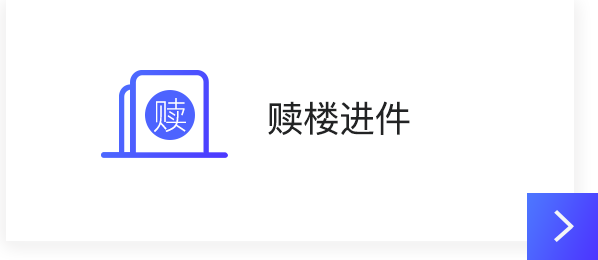
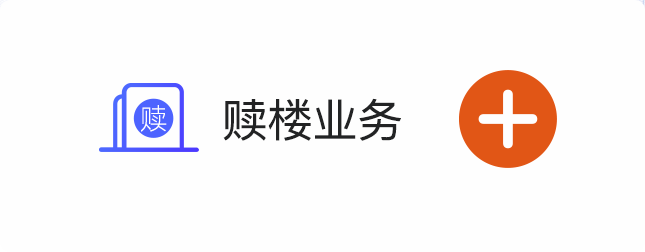
test

Changed region(s): [[0.1505, 0.25, 0.8729, 0.6667], [0.8729, 0.7222, 1.0, 1.0], [0.9933, 0.0, 1.0, 0.0278]]

diff --git a/application/views/users/index.html b/application/views/users/index.html
@@ -3,8 +3,8 @@
 <head>
   <meta charset="utf-8">
   <meta http-equiv="X-UA-Compatible" content="IE=edge">
-  <title>首页</title>
-  <meta name="description" content="首页">
+  <title>房猫金服进件系统</title>
+  <meta name="description" content="房猫金服进件系统">
   <meta name="keywords" content="index">
   <meta name="viewport" content="width=device-width,initial-scale=1.0,maximum-scale=1.0,minimum-scale=1.0,user-scalable=no" />
   <meta name="renderer" content="webkit">
@@ -13,7 +13,7 @@
   <link rel="apple-touch-icon-precomposed" href="/assets/i/app-icon72x72@2x.png">
   <meta name="apple-mobile-web-app-title" content="Amaze UI" />
   <link rel="stylesheet" href="/assets/css/amazeui.css"/>
-  <link rel="stylesheet" href="/assets/css/app.css?time=20190724">
+  <link rel="stylesheet" href="/assets/css/app.css?time=20190726">
   <script type="text/javascript">
     (function() {
         var rem, dpr, time, doc = window.document,
@@ -56,8 +56,8 @@
 </head>
 <body>
 <div class="am-main">
-<div class="wid100"><img src="/assets/images/index1.jpg"></div>
-<div class="min-btn"><a href="/wx_users/foreclosure" class="wid100 ind-btn"><img src="/assets/images/ind-btn.png"></a></div>
+<div class="wid100"><img src="/assets/images/index1.jpg?time=20190726"></div>
+<div class="min-btn"><a href="/wx_users/foreclosure" class="wid100 ind-btn"><img src="/assets/images/ind-btn.png?time=20190726"></a></div>
 <div class="wid100"><img src="/assets/images/index2.jpg"></div>
 
   <div class="am-menu am-g-fixed am-g-menu">
@@ -67,12 +67,6 @@
   </div>
     <p class="copyright">©  Funmall finance</p>
 </div>
-<script src="/assets/js/jquery-1.7.1.js"></script>
-<script src="/assets/js/amazeui.js"></script>
-<script src="/assets/js/animateBackground-plugin.js"></script>
-<script type="text/javascript">
 
-
-</script>
 </body>
 </html>

diff --git a/assets/css/app.css b/assets/css/app.css
@@ -336,8 +336,8 @@ body{background:#f4f4f8; color:#666;}input,input[type=number]:focus{ outline:non
 .am-back-list{background: #fff; color:#333;border:1px solid #ccc;}
 .wid100 img{width: 100%;}
 
-.ind-btn{width: 80%; position: absolute; left:10%;top:13rem;}
-.min-btn{height: 6rem;}
+.ind-btn{width: 80%; position: absolute; left:10%;top:11rem;}
+.min-btn{height:3.5rem;}
 
 
 .login-page{padding:1.2rem 2rem .5rem;}.login-page1{padding:.5rem 1rem;}
